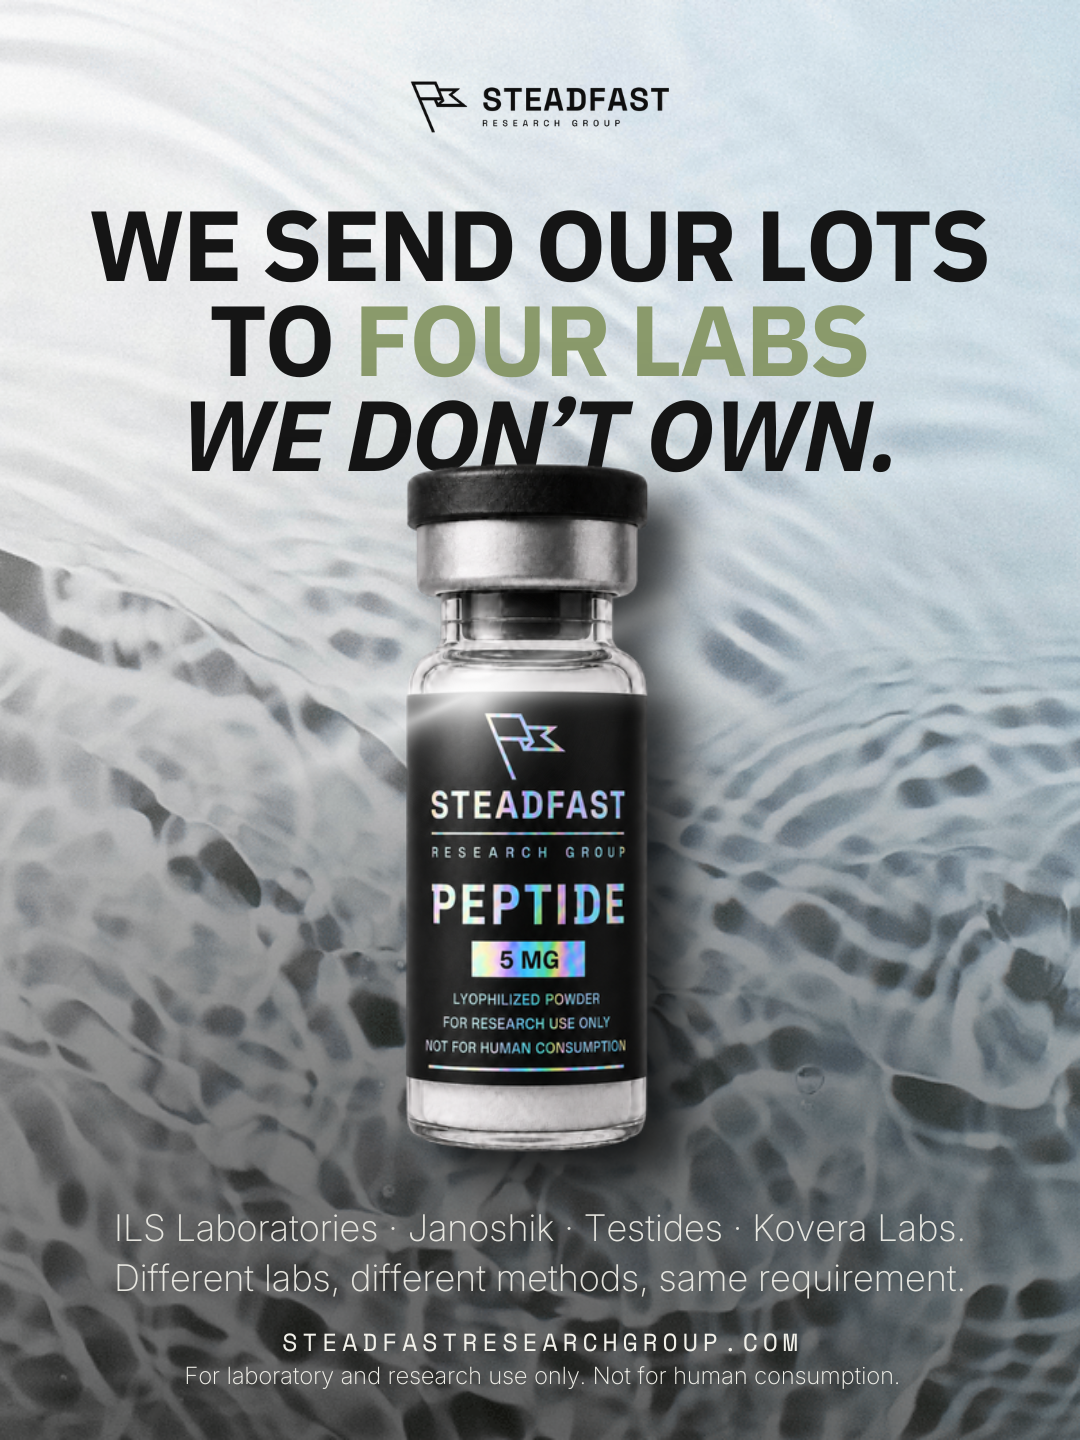
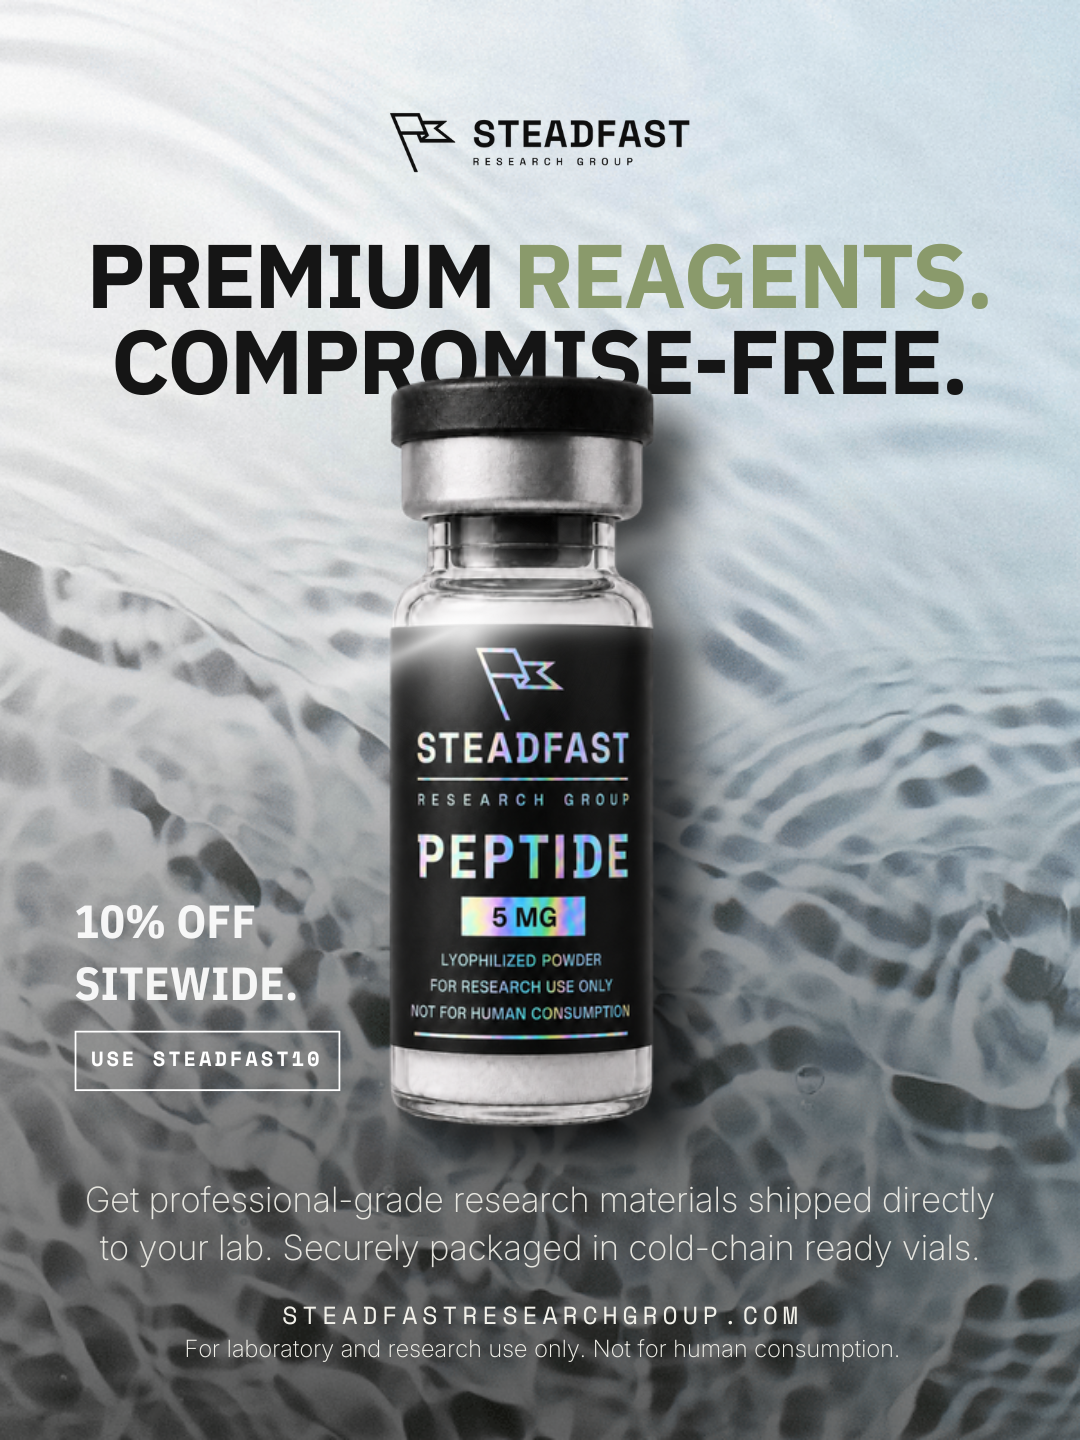
R06: pull Gabi latest Canva export - Premium reagents verbiage, 10% off
Her rework now carries the Ageless reference lines (Premium reagents.
Compromise-free. / 10% off sitewide, USE STEADFAST10 / cold-chain sub-line)
per Blake instruction to mirror the approved running ads. Card metadata,
caption and Meta fields updated to match the artwork. Still open: the vial
render shows the generic PEPTIDE 5 MG label; Blake asked for the BPC label.

Changed region(s): [[0.0611, 0.0625, 0.9167, 0.9688], [0.0611, 0.625, 0.3056, 0.75], [0.2444, 0.4688, 0.275, 0.5]]

diff --git a/ads/pack.js b/ads/pack.js
@@ -235,18 +235,18 @@ var FEED = [
      reference — kept LAST in the feed so it is always easy to find. The
      exported PNG is the creative (tpl:'img'); the Canva design is the source
      of truth and this page never regenerates it. */
-  id:'R06', slug:'labs-we-dont-own', name:'Labs we don’t own — photo build', palette:'field', tpl:'img', safe:'paid',
-  basedOn:'Ageless Vitality photo style &middot; built by Gabi in Canva',
+  id:'R06', slug:'labs-we-dont-own', name:'Premium reagents — photo build', palette:'field', tpl:'img', safe:'paid',
+  basedOn:'Ageless Vitality &mdash; &ldquo;Premium reagents. Compromise-free.&rdquo; &middot; built by Gabi in Canva',
   art:{ img:'exports/srg-ad01-f03-labs-we-dont-own-1080x1440.png' },
   score:['Stops the scroll','Screenshot-worthy'],
   cow:'Canva-authored photo build &mdash; the one card on this page whose source of truth is Canva, not pack.js.',
   pain:'&mdash;',
   process:'&mdash;',
-  proof:'ILS Laboratories &middot; Janoshik &middot; Testides &middot; Kovera Labs.',
+  proof:'Code STEADFAST10, 10% off.',
   cta:'steadfastresearchgroup.com',
-  caption:"We send our lots to four labs we don't own.\n\nILS Laboratories · Janoshik · Testides · Kovera Labs. Different labs, different methods, same requirement.\n\nsteadfastresearchgroup.com\n\nFor laboratory and research use only. Not for human consumption. Not a drug and not intended to diagnose, treat, cure, or prevent any disease.",
-  fields:{ headline:'Four labs. None of them ours.', desc:'Independent testing, every lot.', cta:'Learn more' },
-  spec:'EDIT IN CANVA ONLY — changes to pack.js do not touch this one. After editing, export the PNG from Canva over exports/srg-ad01-f03-labs-we-dont-own-1080x1440.png and commit (or ask the desktop session to pull it from Canva). Blake&rsquo;s notes still open: the verbiage should move to the Ageless reference lines, and the vial shows the generic PEPTIDE 5 MG label where he asked for the BPC label.'
+  caption:"Premium reagents. Compromise-free.\n\nGet professional-grade research materials shipped directly to your lab. Securely packaged in cold-chain ready vials.\n\n10% off sitewide — use code STEADFAST10.\n\nsteadfastresearchgroup.com\n\nFor laboratory and research use only. Not for human consumption. Not a drug and not intended to diagnose, treat, cure, or prevent any disease.",
+  fields:{ headline:'Premium reagents. Compromise-free.', desc:'10% off sitewide — code STEADFAST10.', cta:'Shop now' },
+  spec:'EDIT IN CANVA ONLY — changes to pack.js do not touch this one. After editing, ask the desktop session to pull the PNG from Canva (or export it over exports/srg-ad01-f03-labs-we-dont-own-1080x1440.png and commit). Blake&rsquo;s note still open: the vial shows the generic PEPTIDE 5 MG label where he asked for the BPC label — swap srg-label-bb10.png onto the render in Canva.'
 }
 ];
 
